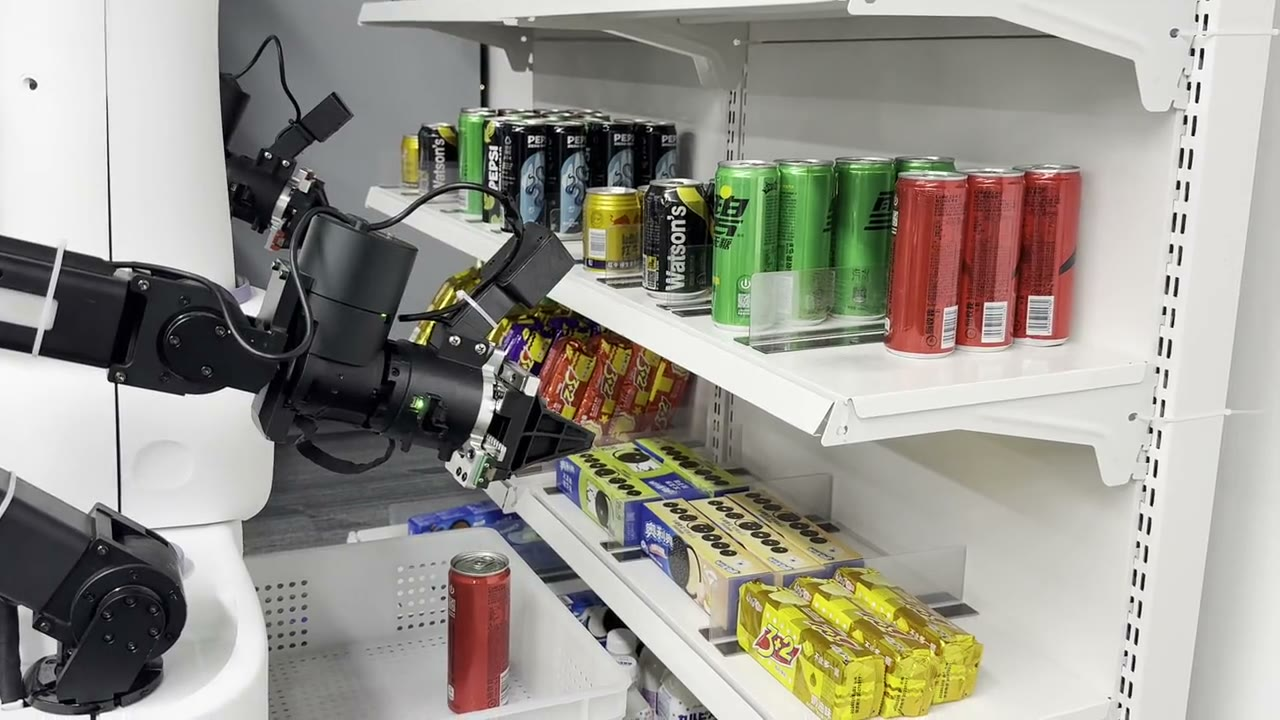
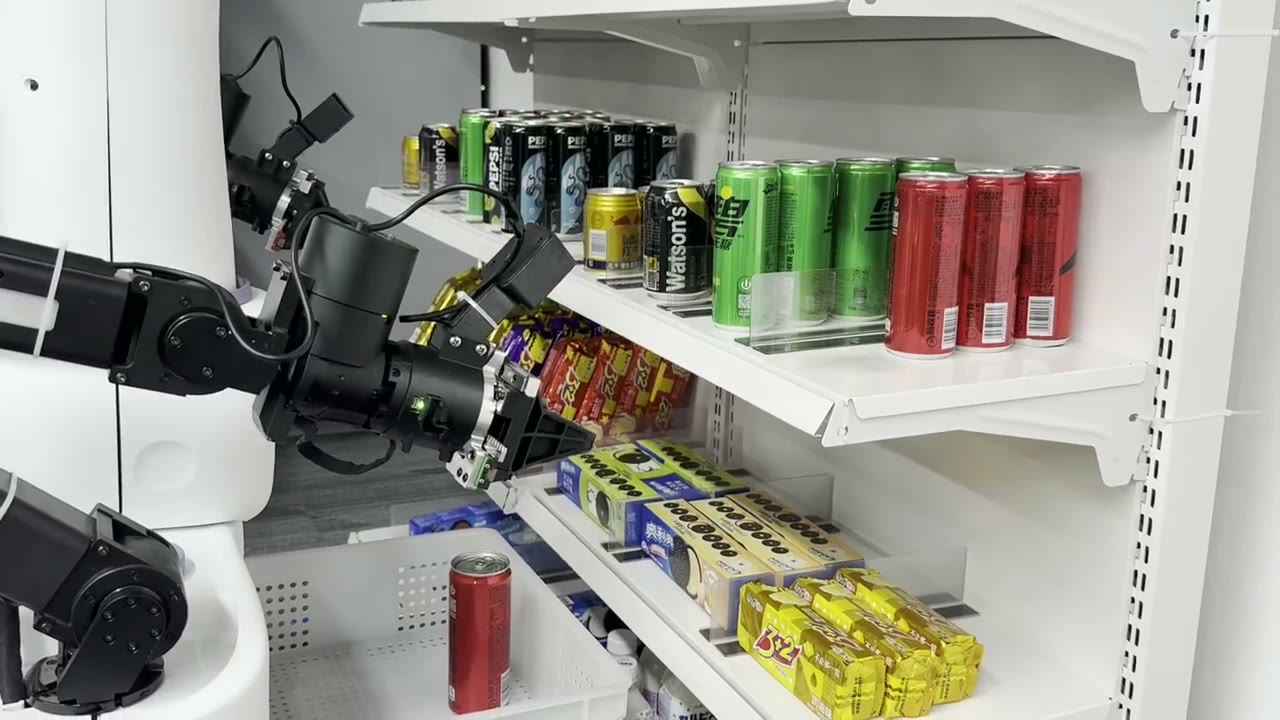
Fix cola comparison videos: convert HDR (HLG/BT.2020) to SDR (BT.709)
The bc/recap/steam cola clips were tagged HDR (10-bit-sourced HLG,
BT.2020), forcing the browser to tone-map them on the fly, causing
playback stutter. Re-encoded from the source MOVs to SDR BT.709
(8-bit, yuv420p) and regenerated posters. Added ?v=2 cache-busting
on the three replaced clips.

diff --git a/assets/js/main.js b/assets/js/main.js
@@ -330,10 +330,10 @@
     cola: {
       blurb: "Bimanual restocking · place cola cans onto the shelf without knocking others over.",
       clips: [
-        { m: "STEAM (Ours)", f: "cola/steam.mp4", ours: true },
-        { m: "BC", f: "cola/bc.mp4" },
+        { m: "STEAM (Ours)", f: "cola/steam.mp4?v=2", ours: true },
+        { m: "BC", f: "cola/bc.mp4?v=2" },
         { m: "HG-DAgger", f: "cola/dagger.mp4" },
-        { m: "RECAP", f: "cola/recap.mp4" },
+        { m: "RECAP", f: "cola/recap.mp4?v=2" },
       ],
     },
     pnp: {

diff --git a/index.html b/index.html
@@ -10,7 +10,7 @@
 <link href="https://fonts.googleapis.com/css2?family=Space+Grotesk:wght@400;500;600;700&family=Inter:wght@400;500;600;700&family=Space+Mono:wght@400;700&display=swap" rel="stylesheet" />
 <link rel="stylesheet" href="https://cdn.jsdelivr.net/npm/katex@0.16.9/dist/katex.min.css" integrity="sha384-n8MVd4RsNIU0tAv4ct0nTaAbDJwPJzDEaqSD1odI+WdtXRGWt2kTvGFasHpSy3SV" crossorigin="anonymous" />
 <script src="https://cdn.jsdelivr.net/npm/katex@0.16.9/dist/katex.min.js" integrity="sha384-XjKyOOlGwcjNTAIQHIpgOno0Hl1YQqzUOEleOLALmuqehneUG+vnGctmUb0ZY0l8" crossorigin="anonymous"></script>
-<link rel="stylesheet" href="assets/css/style.css?v=28" />
+<link rel="stylesheet" href="assets/css/style.css?v=29" />
 </head>
 <body>
 
@@ -388,6 +388,6 @@
 
 <button class="to-top" id="toTop" aria-label="Back to top">&uarr;</button>
 
-<script src="assets/js/main.js?v=28"></script>
+<script src="assets/js/main.js?v=29"></script>
 </body>
 </html>